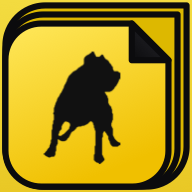
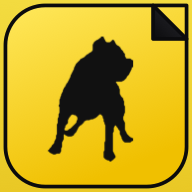
His four revisions: one page, square corner, even pill, indent
"Sorry for this revision" — no need; all four are right.

THE MARK. One page, not a stack: "no need for other pages, that's
already a given." He is right that the fold alone says the thing is a
page out of something, and the extra sheets were spending the mark's
whole right-hand side saying it twice. Three, then two, now one, in
three days — LAYERS stays as a constant rather than being inlined,
because that number has not held still yet.

The top right is a right angle now, and every other corner keeps the
app-icon rounding. Paper does not round off where it folds; squaring
that one corner is what makes the dog-ear read as a dog-ear rather than
as a triangle drawn on a tile. Perimeter thinned 40% exactly as asked,
3.4 to 2.04, and the fold itself is smaller.

THE YELLOW PAGES. Smaller fold, and the corner now matches the sheet
because it paints NOTHING. It used to mix its own yellow to stand for
the page below, and no flat value ever quite matched: the page's yellow
is a photograph under a scrim, so any fixed colour drifts as the scrim
does. Painting nothing matches exactly and cannot come apart, because
what shows through IS the page. That is his "is it possible to match
that yellow" answered properly rather than approximately.

THE PILL is 50/50. Each half had been sized to its own word and BEASTY
is the longer, so the seam sat well right of centre; the halves now
split the bar rather than the type.

THE PARAGRAPH is indented so "and" falls to the second line. 2.8em is
[…]

diff --git a/src/apps/dialer/PagesMark.tsx b/src/apps/dialer/PagesMark.tsx
@@ -40,38 +40,31 @@
 const STEP = 5
 
 /**
- * THREE layers: the page, and two behind it — his 13:00 note, "can you put two
- * yellow pages behind the front one, just make them somewhat closer to each
- * other". STEP came down from 8 to 5 for the "closer" half of that.
+ * ONE page. Not a stack.
  *
- * The backmost layer fills the full 100x100 and IS the icon's silhouette; each
- * one in front is inset a further STEP from the top and right, flush left and
- * bottom. So the stack lives entirely INSIDE one rounded square — the earlier
- * version offset them outward and the union came out stepped and non-square,
- * which on a screen full of squircles reads as a picture of three icons rather
- * than as one.
+ * His 2026-08-15 verdict, after two rounds of stacking it: "no need for other
+ * pages. That's already a given." He is right — the fold alone says the thing
+ * is a page out of something, and the extra sheets were spending the mark's
+ * whole right-hand side saying it twice.
  *
- * Inset on the top and right because that is the corner the front page's fold
- * turns: the fold then opens onto the layer behind it rather than onto nothing.
+ * LAYERS is kept rather than inlined because the geometry below is written for
+ * any number of them, and this has now been 3, 2 and 1 in three days.
  */
-const LAYERS = 3
+const LAYERS = 1
 const layerAt = (depth: number) => ({
   x: 0,
   y: STEP * depth,
   size: 100 - STEP * depth,
 })
-/** Depth 0 is the backmost and draws the icon's outline; the last is the page
-    the dog and the fold live on. */
 const FRONT = layerAt(LAYERS - 1)
 
 /**
- * Corner radius as a proportion of whichever layer is drawn, so an inner page's
- * corners stay in step with the icon's own.
+ * Corner radius as a proportion of whichever layer is drawn.
  *
- * SQUARE at the top right on the layers behind — "make the second page have a
- * right angle as well". It is the one corner of theirs anybody sees, and a
- * rounded one there makes them read as more app tiles stacked up. A right angle
- * reads as paper, which is what they are.
+ * The top right is a RIGHT ANGLE — "square off the corner here". Every other
+ * corner keeps the app-icon rounding. That corner is where the page is turned
+ * down, and paper does not round off where it folds: squaring it is what makes
+ * the dog-ear read as a dog-ear rather than as a triangle drawn on a tile.
  */
 const RADIUS = 0.22
 
@@ -89,7 +82,7 @@ const RADIUS = 0.22
  * fold reaches 22.3% along the top edge and 22.7% down the right. Four parts in
  * a thousand, invisible until you look for it, and he looked for it.
  */
-const F = FRONT.size * 0.225
+const F = FRONT.size * 0.185
 
 /**
  * One layer as a single closed path, corner cut included.
@@ -104,15 +97,15 @@ const F = FRONT.size * 0.225
  * `cut` is false for the back layer: only the front page is dog-eared. Two
  * folded corners would read as two marks rather than one page on another.
  */
-function sheetPath(layer: { x: number; y: number; size: number }, cut: boolean): string {
+function sheetPath(layer: { x: number; y: number; size: number }): string {
   const { x, y, size } = layer
   const rad = size * RADIUS
   const r = x + size
   const b = y + size
   return [
     `M ${x + rad} ${y}`,
-    cut ? `H ${r - F}` : `H ${r}`,
-    cut ? `L ${r} ${y + F}` : `V ${y}`,
+    `H ${r}`,
+    `V ${y}`,
     `V ${b - rad}`,
     `A ${rad} ${rad} 0 0 1 ${r - rad} ${b}`,
     `H ${x + rad}`,
@@ -165,15 +158,6 @@ export function PagesMark({ className }: { className?: string }) {
           <stop offset="0" stopColor="#FFE85C" />
           <stop offset="1" stopColor="#F0C000" />
         </linearGradient>
-        {/* The page behind, as a FLAT tone. It was a gradient while there were
-            two of them, which is what made the mark read as a perspective
-            drawing of a stack rather than as an icon — shading is what says
-            "three-dimensional". One flat shade under the front sheet's gradient
-            says "there is another page" and nothing more. */}
-        <linearGradient id="pm-back" x1="0" y1="0" x2="0" y2="1">
-          <stop offset="0" stopColor="#DDB800" />
-          <stop offset="1" stopColor="#DDB800" />
-        </linearGradient>
         {/* The underside of a turned page catches least light at the tip. */}
         <linearGradient id="pm-fold" x1="1" y1="0" x2="0" y2="1">
           <stop offset="0" stopColor="#2A2A30" />
@@ -181,24 +165,11 @@ export function PagesMark({ className }: { className?: string }) {
         </linearGradient>
         {/* Keeps the dog off the fold and off the rounded corners. */}
         <clipPath id="pm-clip">
-          <path d={sheetPath(FRONT, true)} />
+          <path d={sheetPath(FRONT)} />
         </clipPath>
       </defs>
 
-      {/* Back to front, so each page laps over the one behind it. The last of
-          these is the layer the front page sits directly on. */}
-      {Array.from({ length: LAYERS - 1 }, (_, d) => (
-        <path
-          key={d}
-          d={sheetPath(layerAt(d), false)}
-          fill="url(#pm-back)"
-          stroke="#0B0B0D"
-          strokeWidth="3.4"
-          strokeLinejoin="round"
-        />
-      ))}
-
-      <path d={sheetPath(FRONT, true)} fill="url(#pm-tile)" />
+      <path d={sheetPath(FRONT)} fill="url(#pm-tile)" />
 
       <image
         href="/biggie.webp"
@@ -218,13 +189,13 @@ export function PagesMark({ className }: { className?: string }) {
         including along the cut, which is the part that was missing.
       */}
       <path
-        d={sheetPath(FRONT, true)}
+        d={sheetPath(FRONT)}
         fill="none"
         stroke="#0B0B0D"
-        strokeWidth="3.4"
+        strokeWidth="2.04"
         strokeLinejoin="round"
       />
-      <path d={foldPath()} fill="none" stroke="#0B0B0D" strokeWidth="3.4" strokeLinejoin="round" />
+      <path d={foldPath()} fill="none" stroke="#0B0B0D" strokeWidth="2.04" strokeLinejoin="round" />
     </svg>
   )
 }

diff --git a/src/styles.css b/src/styles.css
@@ -7356,20 +7356,21 @@ textarea {
   position: absolute;
   top: var(--status-h);
   right: 0;
-  width: 58px;
-  height: 58px;
-  /* The corner: top-left of the crease, across the top edge, down the right. */
-  clip-path: polygon(0 0, 100% 0, 100% 100%);
+  width: 42px;
+  height: 42px;
   /*
-    PAPER, not a shadow wash. A translucent black over the sheet only makes the
-    same yellow dimmer, which reads as a smudge; an opaque yellow of its own
-    reads as a second sheet. Keyed off the wallpaper's actual colour — the file
-    measures #F4D701 at this corner, and the page's own scrim brings that to
-    about #D7BD01 on screen. So the sheet below is a shade under that at its
-    lit end and considerably under it in the shadow the turned corner throws,
-    which is what makes it read as being BEHIND rather than beside.
+    THE CORNER IS LEFT ALONE — "is it possible to match that yellow?"
+
+    It used to paint its own yellow here to stand for the sheet below, and no
+    mixed colour ever quite matched the wallpaper: the page's yellow is a
+    photograph under a scrim, so any flat value drifts from it as the scrim
+    changes. Painting nothing matches exactly and cannot come apart, because
+    what shows through IS the page.
+
+    The element stays rather than being deleted so the flap below has a sibling
+    to be positioned against, and so the fold is still one idea in one place.
   */
-  background: linear-gradient(45deg, #a88c00 0%, #d3bc12 46%, #f0da35 100%);
+  clip-path: polygon(0 0, 100% 0, 100% 100%);
   pointer-events: none;
 }
 
@@ -7378,18 +7379,13 @@ textarea {
   position: absolute;
   top: var(--status-h);
   right: 0;
-  width: 58px;
-  height: 58px;
-  /* The flap: the mirror of the corner across the crease. */
+  width: 42px;
+  height: 42px;
+  /* The flap: the mirror of the corner across the crease. 42px rather than 66 —
+     "reduce the size of this fold". */
   clip-path: polygon(0 0, 100% 100%, 0 100%);
-  /*
-    The first stop is a hairline, not a gradient step — the lit edge of the
-    crease itself, where the sheet bends and catches the light. Without it the
-    flap butts against the sheet below with no seam and the whole thing flattens
-    back into one dark triangle, which is the note he raised in the first place.
-  */
-  background: linear-gradient(225deg, #f0da35 0 2px, #2b2b31 3.5px, #111116 58%, #0b0b0d 100%);
-  filter: drop-shadow(-3px 3px 4px rgba(0, 0, 0, 0.45));
+  background: linear-gradient(225deg, #f0da35 0 1.5px, #2b2b31 2.5px, #111116 58%, #0b0b0d 100%);
+  filter: drop-shadow(-2px 2px 3px rgba(0, 0, 0, 0.4));
   pointer-events: none;
 }
 
@@ -7469,10 +7465,20 @@ textarea {
   cursor: pointer;
 }
 
+/*
+  FIFTY-FIFTY — "can you even out this pill 50/50?"
+
+  Each half was sized to its own word, and BEASTY is the longer of the two, so
+  the seam sat well right of centre. flex:1 with equal basis splits the pill by
+  the BAR rather than by the type, and centring inside each half keeps both
+  words optically placed within their own colour.
+*/
 .dialer-domain-half {
+  flex: 1 1 0;
   display: inline-flex;
   align-items: center;
-  padding: 0 16px;
+  justify-content: center;
+  padding: 0 14px;
 }
 
 .dialer-domain-half.is-light {
@@ -7518,6 +7524,18 @@ textarea {
   font-size: 13.5px;
   line-height: 1.5;
   text-align: left;
+  /*
+    A first-line indent, his ask: "put an indent on the paragraph so it will
+    push the 'and' to the 2nd line so the paragraph will be more balanced and
+    symmetrical." Indenting the first line is what moves that break — a margin
+    would move every line together and change nothing about where words fall.
+
+    2.8em is measured, not picked. Below 2.2 "and" stays on line one; above 3.4
+    "local" goes with it and the balance he is after is lost the other way. The
+    middle of that band is the value least likely to flip back on a phone whose
+    font metrics round differently.
+  */
+  text-indent: 2.8em;
   box-shadow: 0 12px 30px -10px rgba(0, 0, 0, 0.45);
 }
 
@@ -7530,6 +7548,9 @@ textarea {
 */
 .dialer-domain-domain {
   display: block;
+  /* Not indented: it is a centred line of its own, and text-indent on the
+     paragraph would otherwise shove it off centre by 1.6em. */
+  text-indent: 0;
   margin-top: 10px;
   padding-top: 9px;
   border-top: 1px solid rgba(255, 255, 255, 0.14);
